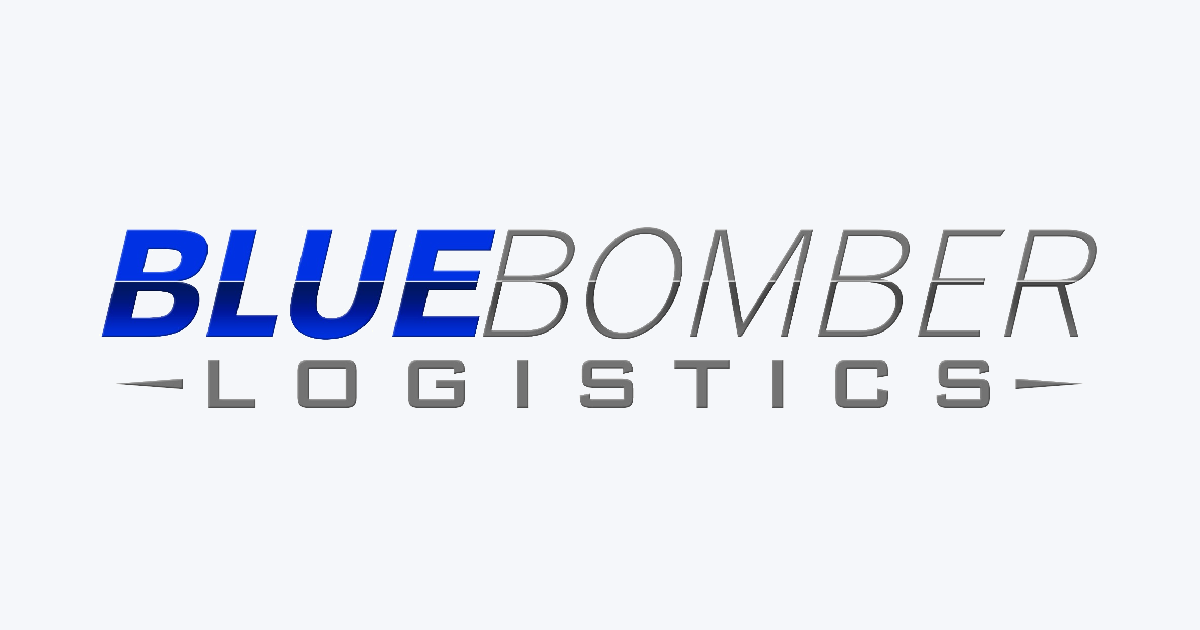
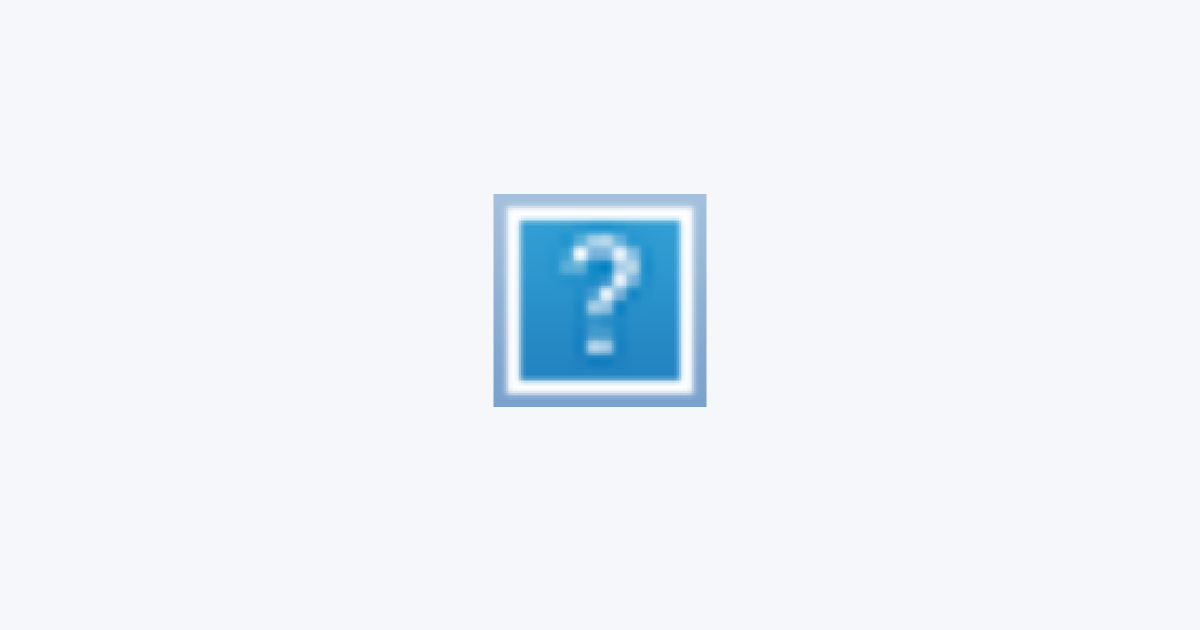
Create vector Blue Bomber branding assets

diff --git a/app/layout.tsx b/app/layout.tsx
@@ -6,9 +6,9 @@ export const metadata: Metadata = {
   title: "Blue Bomber OS",
   description: "Operations command center for Blue Bomber Logistics",
   icons: {
-    icon: "/favicon.png",
-    shortcut: "/favicon.png",
-    apple: "/blue-bomber-app-icon.png"
+    icon: "/favicon.ico",
+    shortcut: "/favicon.ico",
+    apple: "/apple-touch-icon.png"
   },
   openGraph: {
     title: "Blue Bomber OS",

diff --git a/app/page.tsx b/app/page.tsx
@@ -2236,7 +2236,7 @@ export default function Home() {
       <section className="topbar" aria-label="Home">
         <div>
           <div className="brand-lockup">
-            <img className="brand-logo" src="/blue-bomber-logo.png" alt="Blue Bomber Logistics" />
+            <img className="brand-logo" src="/blue-bomber-logo.svg" alt="Blue Bomber Logistics" />
           </div>
         </div>
         <div className="topbar-actions">
@@ -2744,7 +2744,7 @@ function LoginScreen({
   return (
     <main className="login-shell">
       <section className="login-card" aria-label="Login">
-        <img className="login-logo" src="/blue-bomber-logo.png" alt="Blue Bomber Logistics" />
+        <img className="login-logo" src="/blue-bomber-logo.svg" alt="Blue Bomber Logistics" />
         <h1>Blue Bomber Logistics OS</h1>
         <p>Operations Command Center</p>
         <form onSubmit={submitLogin}>